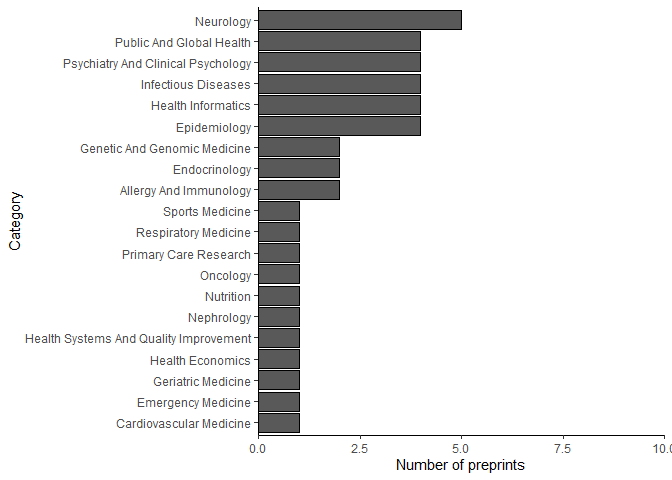
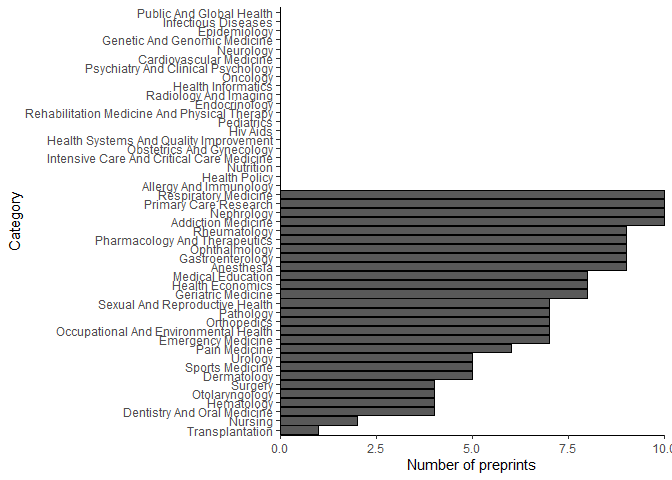
updates

diff --git a/README.md b/README.md
@@ -20,7 +20,7 @@ devtools::install_github("danymukesha/medrxivr.analysis", upgrade = c("never"),)
     ## Downloading GitHub repo danymukesha/medrxivr.analysis@HEAD
 
     ## ── R CMD build ─────────────────────────────────────────────────────────────────
-    ##       ✔  checking for file 'C:\Users\dany.mukesha\AppData\Local\Temp\RtmpkTXXO3\remotes874c3ec55a52\danymukesha-medrxivr.analysis-8c3d84b/DESCRIPTION' (358ms)
+    ##          checking for file 'C:\Users\dany.mukesha\AppData\Local\Temp\Rtmpe6QYTK\remotes1c785749bd\danymukesha-medrxivr.analysis-6e7a522/DESCRIPTION' ...  ✔  checking for file 'C:\Users\dany.mukesha\AppData\Local\Temp\Rtmpe6QYTK\remotes1c785749bd\danymukesha-medrxivr.analysis-6e7a522/DESCRIPTION' (355ms)
     ##       ─  preparing 'medrxivr.analysis':
     ##    checking DESCRIPTION meta-information ...     checking DESCRIPTION meta-information ...   ✔  checking DESCRIPTION meta-information
     ##       ─  checking for LF line-endings in source and make files and shell scripts
@@ -30,7 +30,7 @@ devtools::install_github("danymukesha/medrxivr.analysis", upgrade = c("never"),)
     ##      
     ## 
 
-    ## Installing package into 'C:/Users/dany.mukesha/AppData/Local/Temp/RtmpcnzuEp/temp_libpath8c2c646855d3'
+    ## Installing package into 'C:/Users/dany.mukesha/AppData/Local/Temp/RtmpcnzuEp/temp_libpath8c2c581320e8'
     ## (as 'lib' is unspecified)
 
 ## Usage
@@ -43,7 +43,7 @@ preprints in each category.
 library(medrxivr.analysis)
 
 # Analyze preprint data for January 2024
-medrxivr.analysis::analyze_medrxivr(from_date = "2024-01-31", to_date = "2024-01-31")
+medrxivr.analysis::analyze_medrxivr(from_date = "2024-01-01", to_date = "2024-01-31")
 ```
 
     ## 
@@ -57,9 +57,12 @@ medrxivr.analysis::analyze_medrxivr(from_date = "2024-01-31", to_date = "2024-01
     ## 
     ##     intersect, setdiff, setequal, union
 
-    ## Estimated total number of records as per API metadata: 42
+    ## Estimated total number of records as per API metadata: 1135
 
-    ## Downloading... [======================] 100/42 (100%) Est. time remaining:  0s                                                                              Number of records retrieved from API: 42
+    ## Downloading... [=>------------------] 100/1135 (  9%) Est. time remaining: 38sDownloading... [===>----------------] 200/1135 ( 18%) Est. time remaining: 30sDownloading... [====>---------------] 300/1135 ( 26%) Est. time remaining: 25sDownloading... [======>-------------] 400/1135 ( 35%) Est. time remaining: 23sDownloading... [========>-----------] 500/1135 ( 44%) Est. time remaining: 19sDownloading... [==========>---------] 600/1135 ( 53%) Est. time remaining: 16sDownloading... [===========>--------] 700/1135 ( 62%) Est. time remaining: 13sDownloading... [=============>------] 800/1135 ( 70%) Est. time remaining: 10sDownloading... [===============>----] 900/1135 ( 79%) Est. time remaining:  7sDownloading... [================>--] 1000/1135 ( 88%) Est. time remaining:  4sDownloading... [=================>-] 1100/1135 ( 97%) Est. time remaining:  1sDownloading... [===================] 1200/1135 (100%) Est. time remaining:  0s                                                                              Number of records retrieved from API: 1125
+    ## The estimated "total number" as per the metadata can sometimes be artifically inflated.
+
+    ## Warning: Removed 20 rows containing missing values (`position_stack()`).
 
 ![](README_files/figure-gfm/Analyzing%20preprint%20publications-1.png)<!-- -->
 
